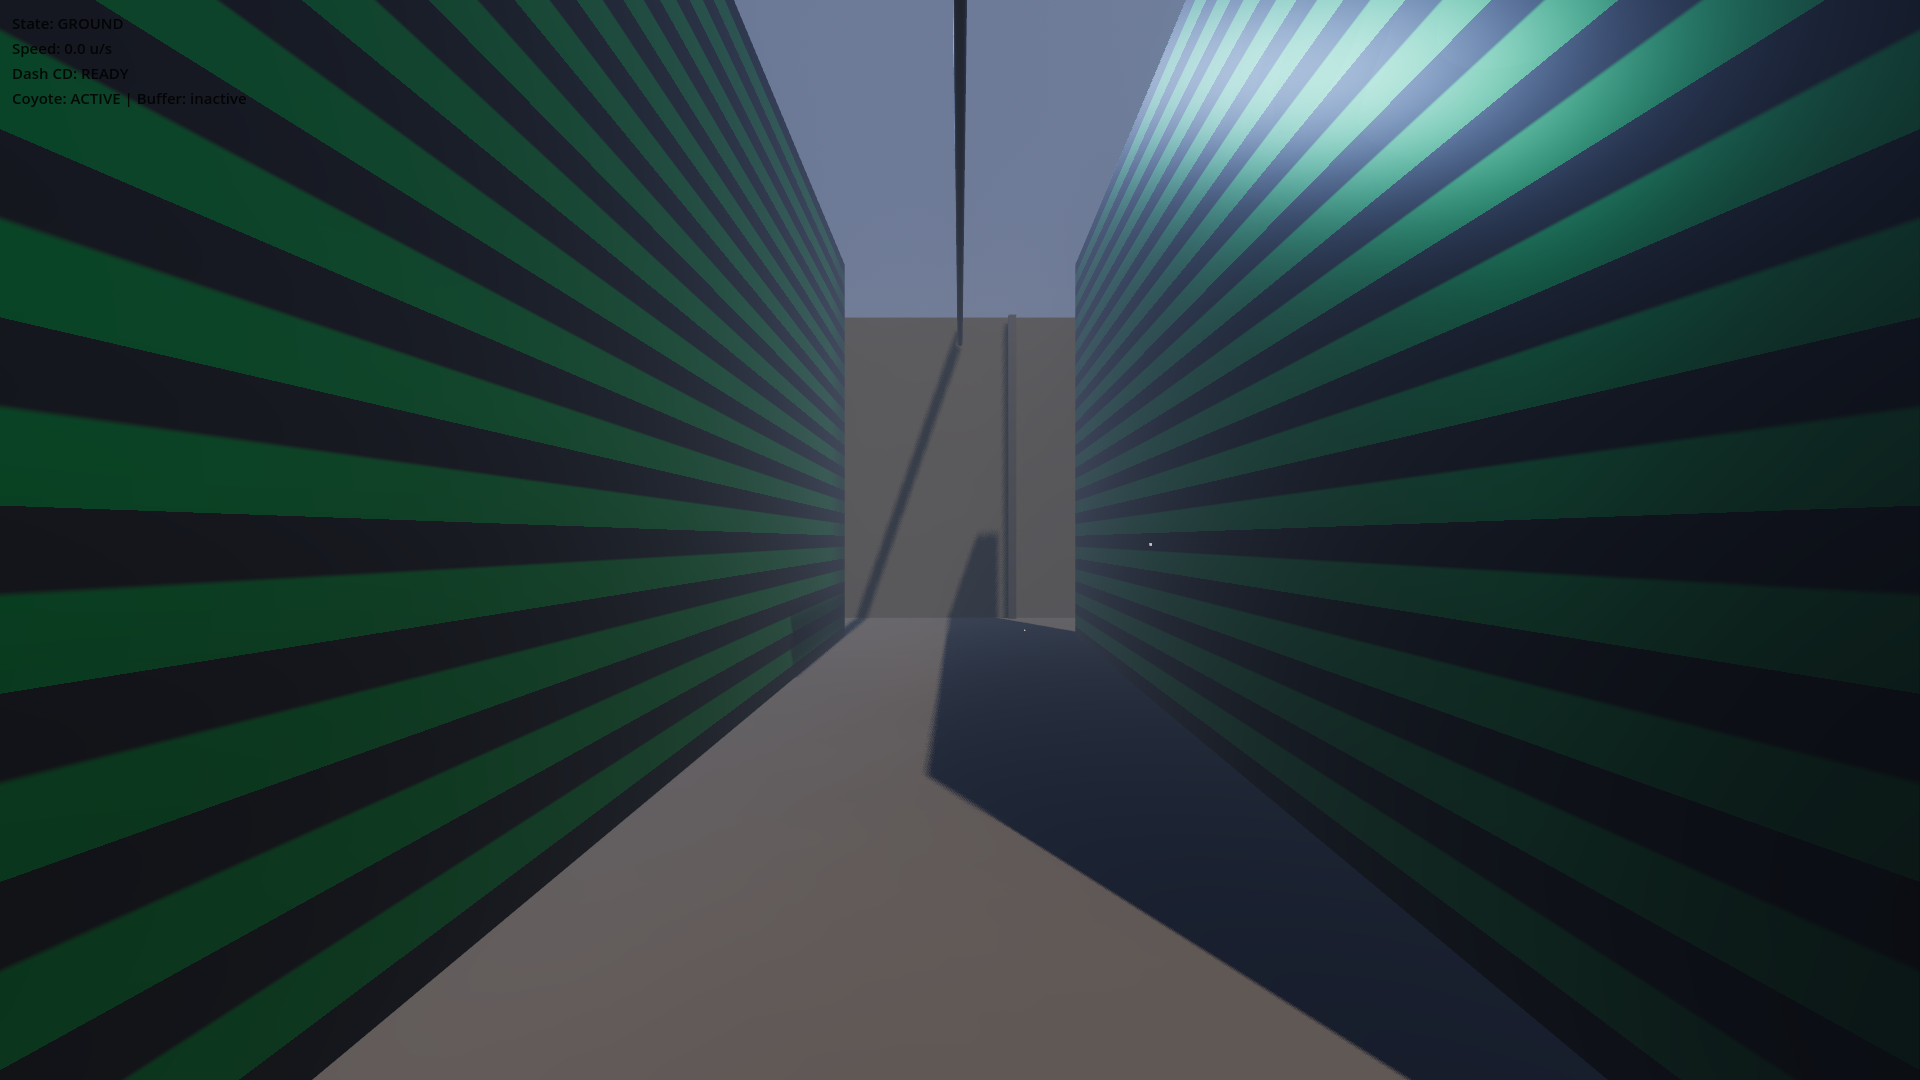
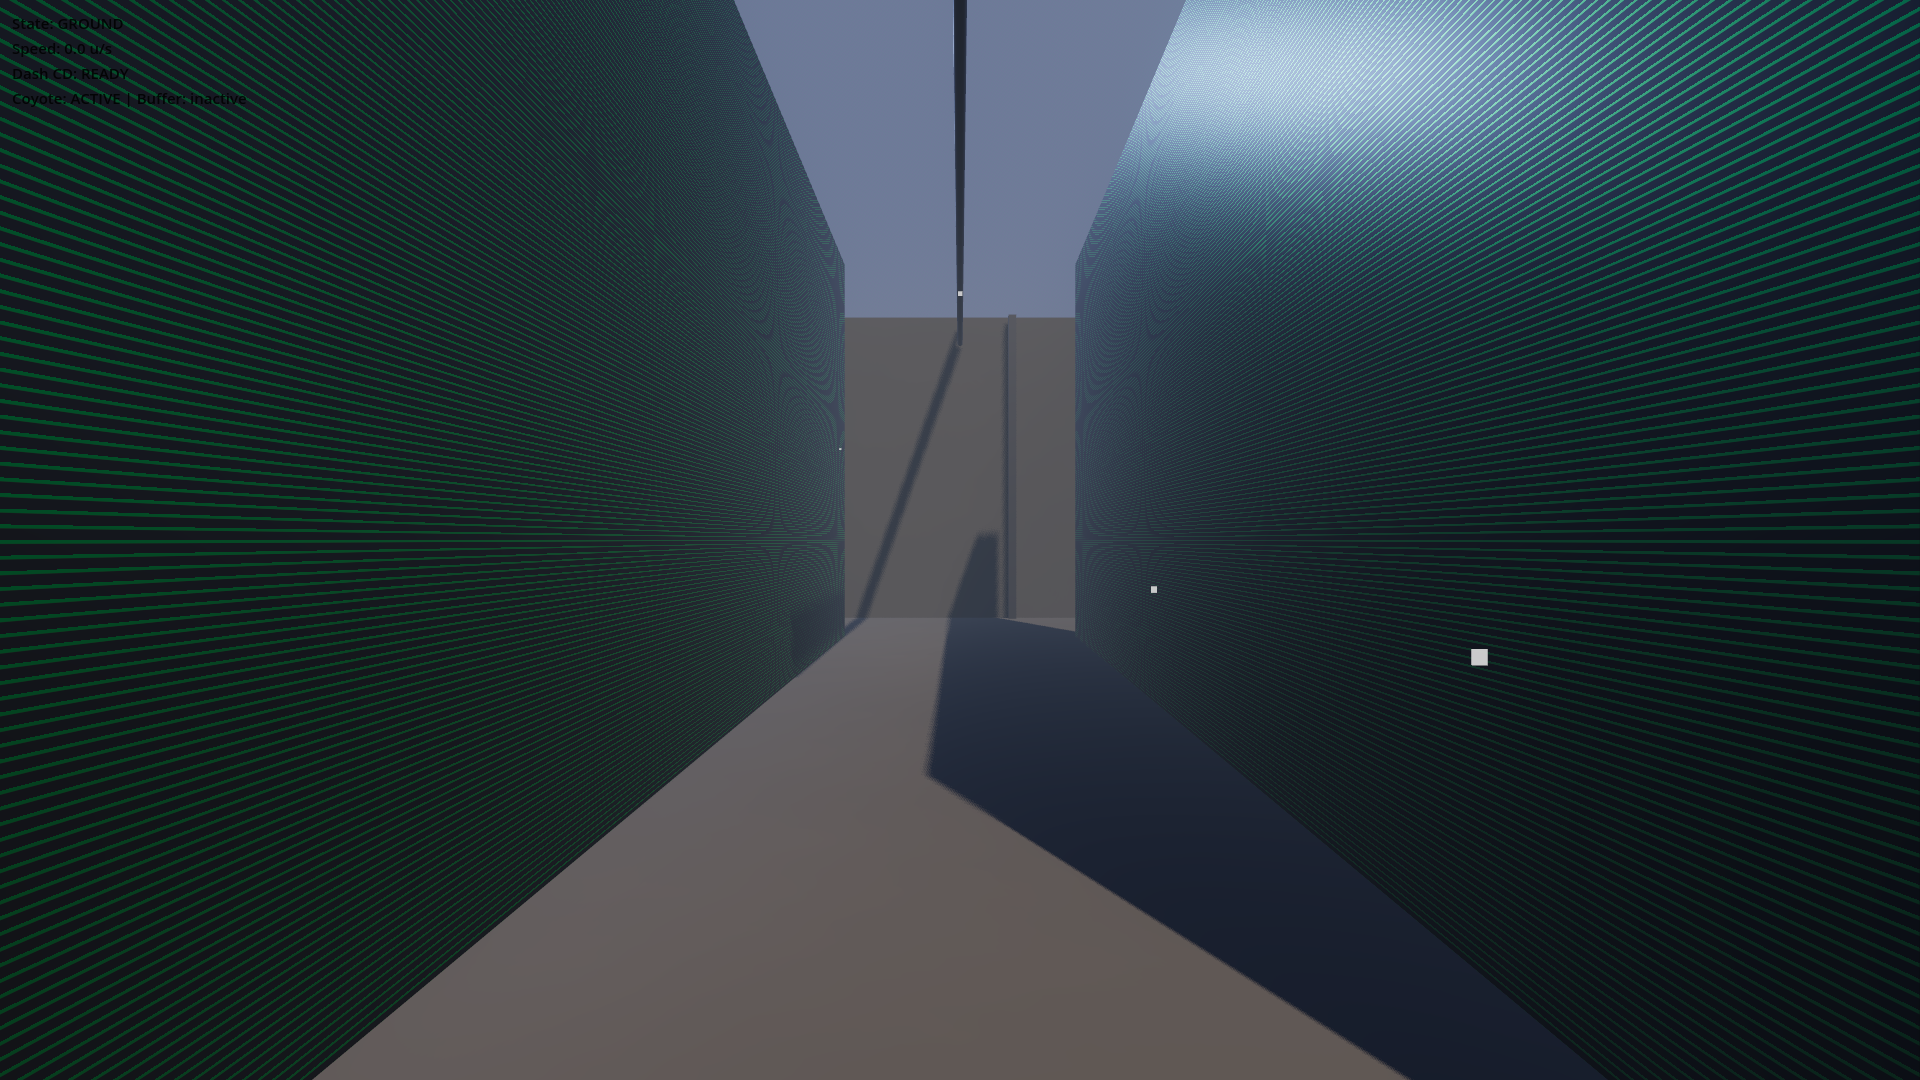
Fix wallrun stripe orientation: height-axis stripes, add down-the-corridor proof shot
Root cause: the wallrun walls' stripes were stacked along the wall's HEIGHT axis
already (uv.y maps to world Y on the box's +-x faces - verified in box_uv.gd),
but at ~45% duty their band EDGES run along the LENGTH axis, so down the
corridor the contrasts dominate as lines radiating toward the vanishing point.
This is a geometry/contrast artifact, not a frequency problem.

Fix (scene_runtime_builder.gd + scene_builder.gd wallrun shader):
- stripe index now uses VERTEX.y (the height axis) explicitly, so the pattern
  is anchored to height regardless of UV layout or node orientation
- stripes narrowed to ~20% duty with crisp edges, so the wall reads as thin
  parallel horizontal lines receding into depth instead of fat slabs whose
  lengthwise edges fan out

Screenshots: regenerated the 3 existing vantages + new 04_corridor_down_length
(standing in the corridor looking straight down its length, the worst-case
grazing angle). Bands appear as parallel horizontal lines, not a fan.

stripe_check.py switched to peak-based stripe-line counting (numbers are
stripe lines crossed down the wall; before / after):
  01 spawn:    9 / 10 lines
  02 platform: 0 / 43 lines
  03 wallrun:  7 / 87 lines
  04 corridor: (new) 55 lines

Consistency audit: only WallRunLeft/Right use the stripe material (PBR walls
are nondirectional fbm noise, platform strip is a single non-repeating edge
band) - nothing else needed the same fix.
[…]

diff --git a/scripts/tools/stripe_check.py b/scripts/tools/stripe_check.py
@@ -1,18 +1,18 @@
 #!/usr/bin/env python3
-"""Stripe-density verification for the green wallrun walls.
+"""Striped-wall orientation + density verification.
 
-Counts how many distinct stripe-width transitions occur across the striped wall
-surface in a verification screenshot:
+Counts distinct stripe-width transitions across the striped wall surface by
+detecting the green stripe LINES along a strip down the wall:
 
-  - green mask sampled every 2 px: g > r+25 and g > b+10
-  - the 12 columns with the most green pixels are taken as the near/visible
-    wall face; for each, transitions are counted across its green vertical
-    span (that strip crosses the horizontal caution stripes)
-  - reported: median and max transition count, plus implied stripe-band count
-    (transitions / 2)
-
-A second mode (--ab) counts the same metric on the controlled close-up pair
-(same camera, stripe_freq 12 vs 34).
+  - near-wall columns are chosen as the columns with the most strong-green
+    samples (g > r+25 and g > b+10) OR the most green-channel local maxima
+  - for each chosen column, stripe lines are detected as local maxima of the
+    green channel along y (peaks separated by >= MIN_SEP samples, prominence
+    >= PROMINENCE above the surrounding troughs), which survives antialiasing
+    of thin stripes at distance
+  - the number of stripe lines crossed by the strip = distinct stripe-width
+    transitions (each line has an entering and leaving edge)
+  - reported: median and max line counts across the chosen columns
 
 Usage:
   python3 scripts/tools/stripe_check.py <before_dir> <after_dir>
@@ -26,7 +26,46 @@ from PIL import Image
 
 STEP = 2
 THR = 25
+PROMINENCE = 18
+MIN_SEP = 5
 N_COLS = 12
+
+
+def green_samples(px, x, y0, y1):
+    out = []
+    for y in range(y0, y1):
+        r, g, b = px[x * STEP, y * STEP]
+        out.append(g if (g > r + THR and g > b + 10) else 0)
+    return out
+
+
+def count_peaks(vals):
+    """Count stripe lines = local maxima of the green channel.
+
+    A peak is a sample that is the max of its +-2 window, is >= PROMINENCE
+    above the min in its +-6 window (so troughs are dark), and is separated
+    from the previous peak by >= MIN_SEP samples.
+    """
+    n = len(vals)
+    peaks = 0
+    last = -1
+    for i in range(n):
+        if vals[i] == 0:
+            continue
+        lo = max(0, i - 2)
+        hi = min(n, i + 3)
+        if vals[i] != max(vals[lo:hi]):
+            continue
+        wlo = max(0, i - 6)
+        whi = min(n, i + 7)
+        if vals[i] - min(vals[wlo:whi]) < PROMINENCE:
+            continue
+        if last >= 0 and i - last < MIN_SEP:
+            last = i
+            continue
+        peaks += 1
+        last = i
+    return peaks
 
 
 def near_wall_metric(path):
@@ -35,50 +74,51 @@ def near_wall_metric(path):
     px = im.load()
     wl = w // STEP
     hl = h // STEP
-    m = []
+    scores = []
     for x in range(wl):
-        col = []
+        y0 = 0
+        y1 = hl
+        # roughly limit to the column's likely wall span later; for now full column
+        g = px[x * STEP, hl // 2]
+        r = g[0]
+        base = g[1]
+        strong = 0
         for y in range(hl):
-            r, g, b = px[x * STEP, y * STEP]
-            col.append(1 if (g > r + THR and g > b + 10) else 0)
-        m.append(col)
-    totals = [sum(c) for c in m]
-    best_cols = sorted(range(wl), key=lambda x: -totals[x])[:N_COLS]
-    trans = []
+            rr, gg, bb = px[x * STEP, y * STEP]
+            if gg > rr + THR and gg > bb + 10:
+                strong += 1
+        scores.append(strong)
+    best_cols = sorted(range(wl), key=lambda x: -scores[x])[:N_COLS]
+    counts = []
     for x in best_cols:
-        col = m[x]
-        ys = [y for y in range(hl) if col[y]]
-        if not ys:
-            continue
-        sub = col[min(ys):max(ys) + 1]
-        t = 0
-        prev = 0
-        for v in sub:
-            if v != prev:
-                t += 1
-            prev = v
-        trans.append(t)
-    if not trans:
+        vals = green_samples(px, x, 0, hl)
+        c = count_peaks(vals)
+        counts.append(c)
+    if not counts:
         return (0, 0)
-    med = statistics.median(trans)
-    return (int(med), (int(med) + 1) // 2)
+    med = statistics.median(counts)
+    return (int(med), int(max(counts)))
 
 
 def main():
-    shots = ["01_spawn_facing_room", "02_platform_looking_back", "03_wallrun_approach"]
+    shots = ["01_spawn_facing_room", "02_platform_looking_back", "03_wallrun_approach", "04_corridor_down_length"]
     if sys.argv[1] == "--ab":
         a = near_wall_metric(sys.argv[2])
         b = near_wall_metric(sys.argv[3])
-        print("close-up A/B (transitions, stripe-bands):")
+        print("close-up A/B (median stripe-lines, max):")
         print("  freq12 (before):  %d / %d" % (a[0], a[1]))
         print("  freq34 (fixed):   %d / %d" % (b[0], b[1]))
         return
     before_dir, after_dir = sys.argv[1], sys.argv[2]
-    print("%-24s %-20s %s" % ("screenshot", "BEFORE trans/bands", "AFTER trans/bands"))
+    print("%-26s %-22s %s" % ("screenshot", "BEFORE lines(med/max)", "AFTER lines(med/max)"))
     for shot in shots:
-        b = near_wall_metric(os.path.join(before_dir, shot + ".png"))
+        bpath = os.path.join(before_dir, shot + ".png")
         a = near_wall_metric(os.path.join(after_dir, shot + ".png"))
-        print("%-24s %10d / %-5d %10d / %d" % (shot, b[0], b[1], a[0], a[1]))
+        if os.path.exists(bpath):
+            b = near_wall_metric(bpath)
+            print("%-26s %11d / %-5d %9d / %d" % (shot, b[0], b[1], a[0], a[1]))
+        else:
+            print("%-26s   (new shot)                %9d / %d" % (shot, a[0], a[1]))
 
 
 if __name__ == "__main__":
